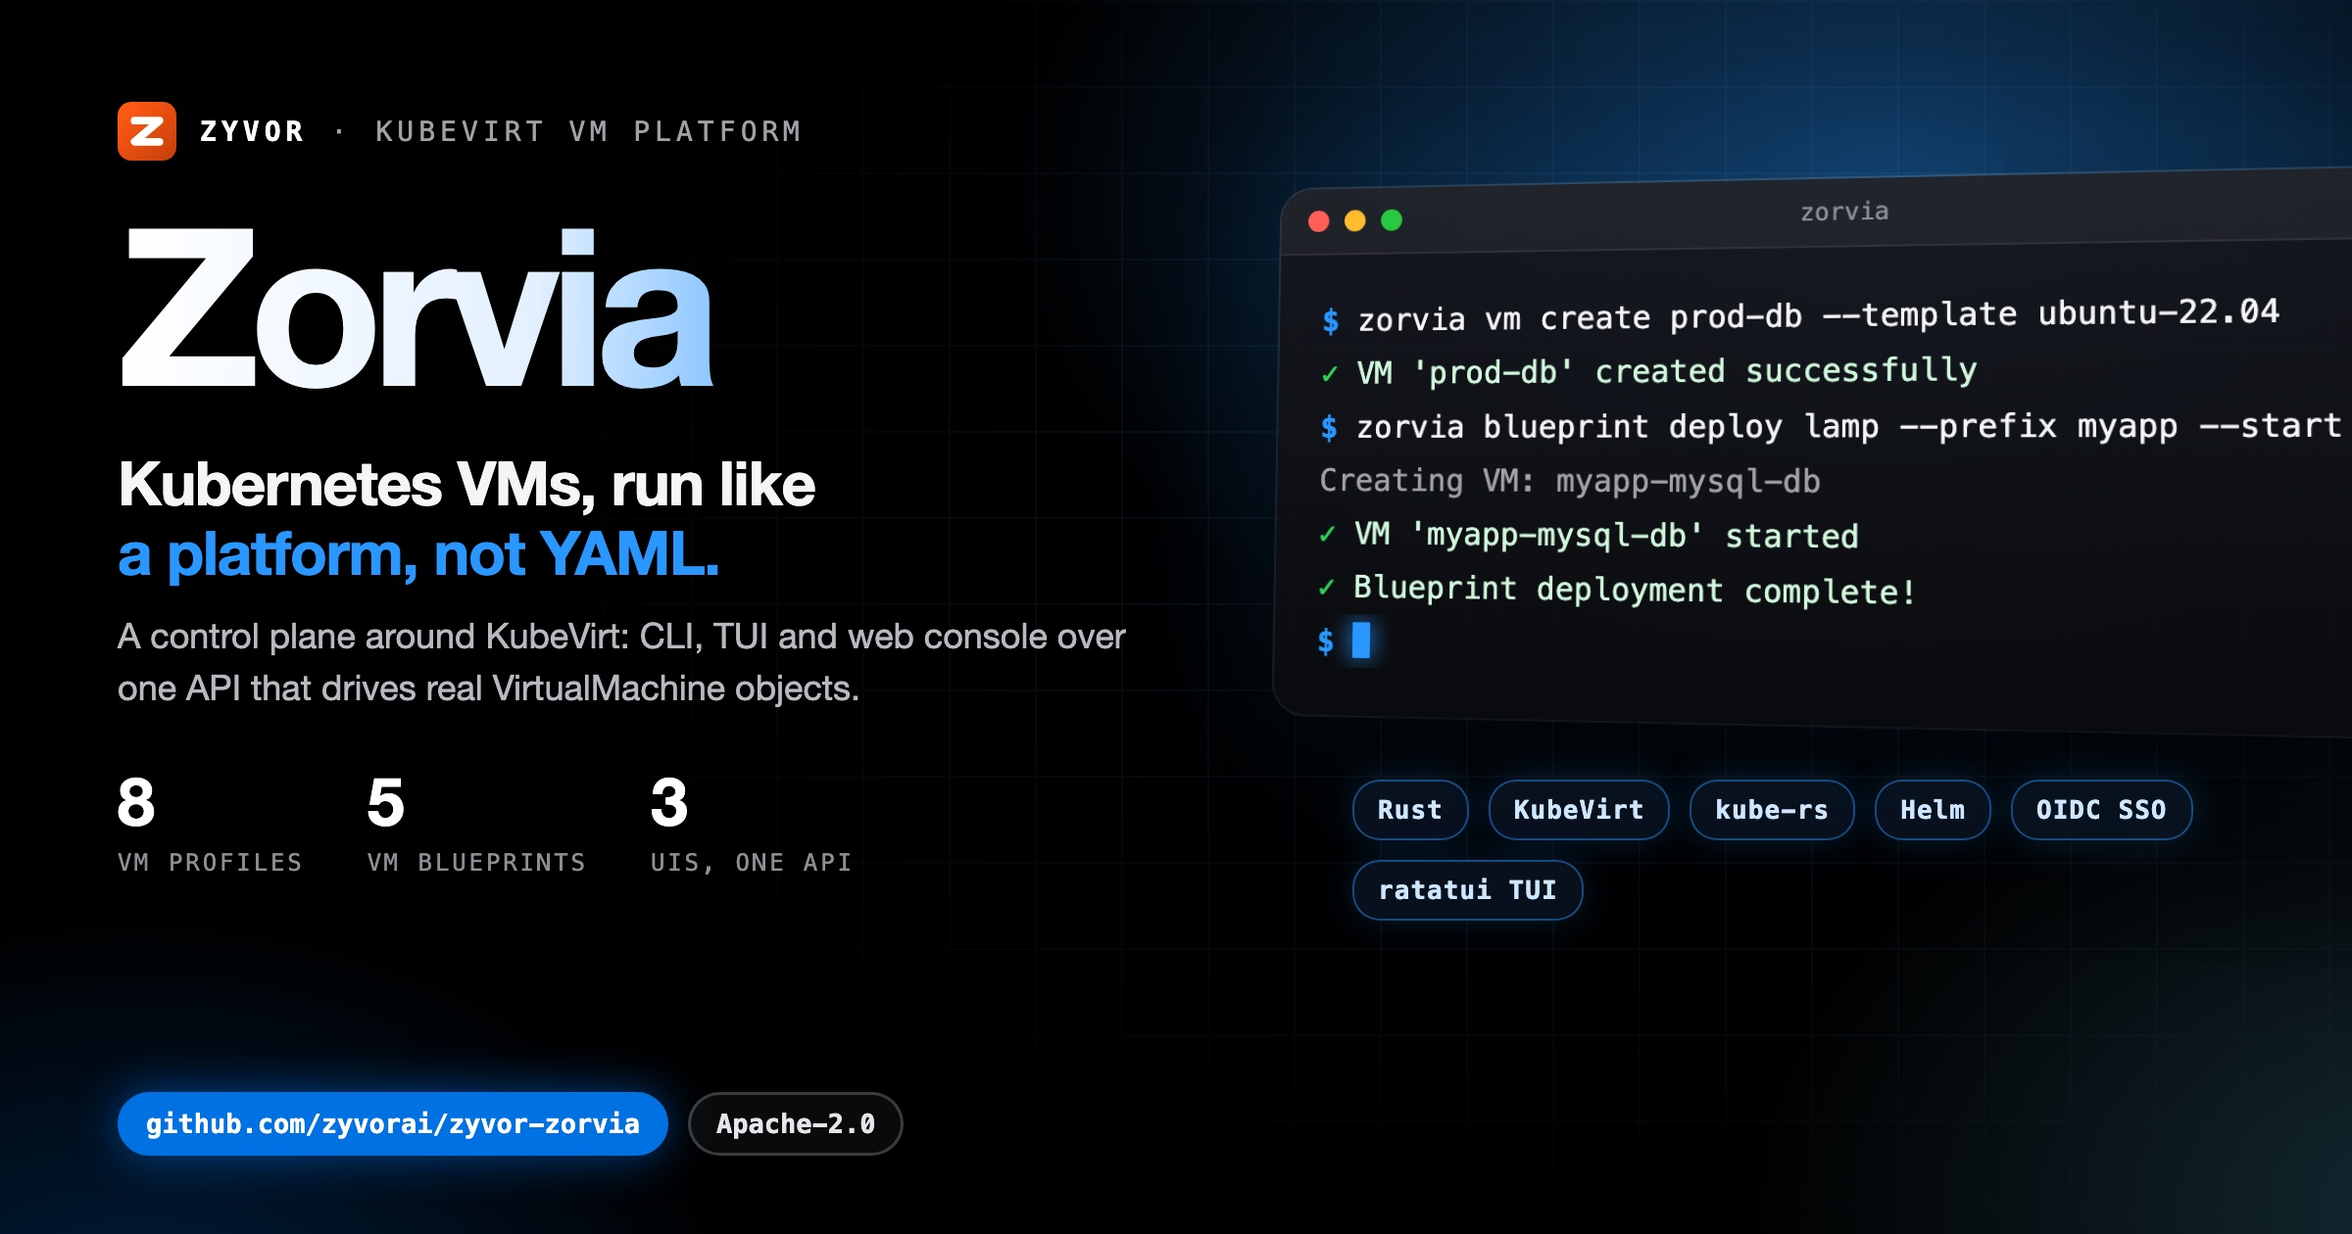
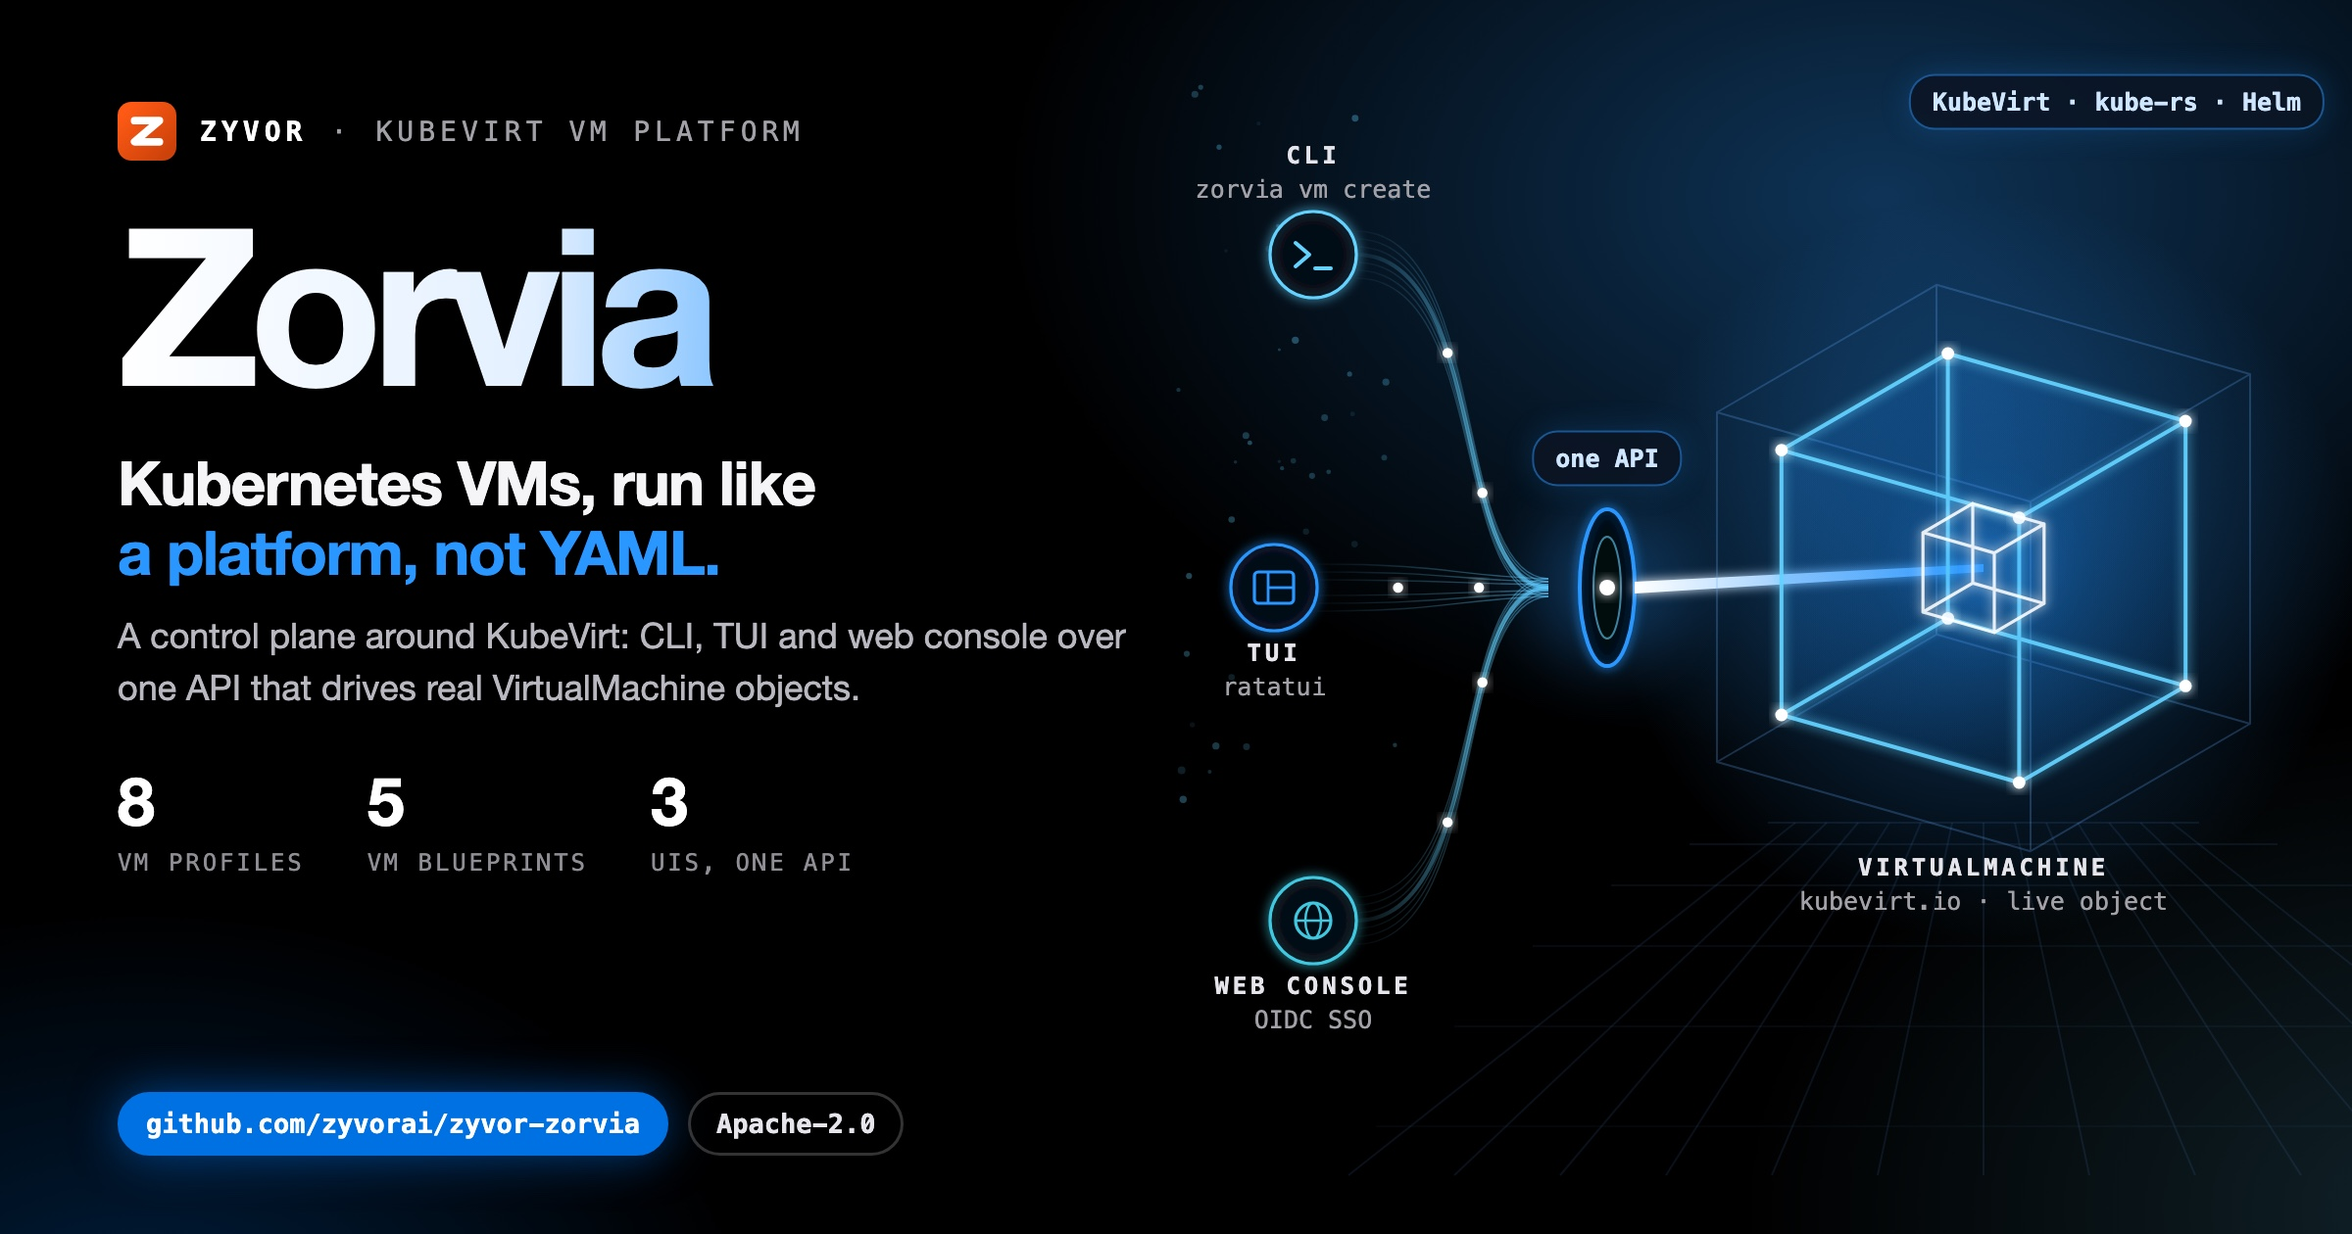
docs(social): unique illustrated hero card
Replace the shared terminal-window art with a motif drawn for this project;
same verified copy and stats on the left.

Changed region(s): [[0.5, 0.0619, 1.0, 0.8357]]

diff --git a/docs/social/zorvia-hero-dark.html b/docs/social/zorvia-hero-dark.html
@@ -8,58 +8,47 @@
   Build: ./docs/social/build-hero-dark.sh  ->  zorvia-hero-dark.jpg (2400x1260)
 -->
 <style>
-  :root { --blue:#0071e3; --signal:#2997ff; --cyan:#64d2ff; --green:#30d158; --amber:#ff9f0a;
+  :root { --blue:#0071e3; --signal:#2997ff; --cyan:#64d2ff; --green:#30d158; --amber:#ff9f0a; --red:#ff453a; --violet:#bf5af2;
     --sans:'SF Pro Display','Helvetica Neue',Helvetica,Arial,sans-serif; --mono:'SF Mono',Menlo,Consolas,monospace; }
   * { box-sizing:border-box; }
   html,body { margin:0; padding:0; }
   body { width:1200px; height:630px; overflow:hidden; color:#f5f5f7; font-family:var(--sans); position:relative; background:#000; }
   .aurora { position:absolute; inset:0;
-    background:radial-gradient(720px 460px at 80% 16%, rgba(41,151,255,.40), transparent 62%),
-               radial-gradient(600px 420px at 104% 98%, rgba(100,210,255,.20), transparent 60%),
+    background:radial-gradient(720px 460px at 80% 16%, rgba(41,151,255,.34), transparent 62%),
+               radial-gradient(600px 420px at 104% 98%, rgba(100,210,255,.16), transparent 60%),
                radial-gradient(520px 380px at 6% 110%, rgba(0,113,227,.28), transparent 60%); }
-  .grid { position:absolute; inset:0; opacity:.09;
-    background-image:linear-gradient(rgba(120,180,255,.9) 1px,transparent 1px),linear-gradient(90deg,rgba(120,180,255,.9) 1px,transparent 1px);
-    background-size:44px 44px; -webkit-mask-image:radial-gradient(900px 520px at 72% 42%, #000 18%, transparent 75%); }
-  .left { position:absolute; left:60px; top:52px; width:560px; z-index:3; }
+  .copy { position:absolute; left:60px; top:52px; width:560px; z-index:3; }
   .brand { display:flex; align-items:center; gap:12px; font-family:var(--mono); font-size:14px; letter-spacing:.18em; text-transform:uppercase; color:#a1a1a6; }
   .brand b { color:#fff; }
   .word { margin:20px 0 0; font-size:112px; line-height:.95; font-weight:800; letter-spacing:-.05em; white-space:nowrap;
     background:linear-gradient(92deg,#fff 0%,#e3f0ff 38%,var(--signal) 74%,var(--cyan) 100%); -webkit-background-clip:text; background-clip:text; color:transparent; padding-bottom:6px; }
   .tag { margin:14px 0 0; font-size:31px; line-height:1.15; font-weight:700; letter-spacing:-.02em; }
   .tag em { font-style:normal; color:var(--signal); }
-  .lede { margin:12px 0 0; font-size:18px; line-height:1.45; color:#b8b8bf; width:520px; }
+  .lede { margin:12px 0 0; font-size:18px; line-height:1.45; color:#b8b8bf; width:520px; text-shadow:0 1px 12px #000; }
   .stats { margin-top:24px; display:flex; gap:32px; }
   .stat b { display:block; font-size:34px; font-weight:800; letter-spacing:-.03em; color:#fff; }
   .stat span { font-family:var(--mono); font-size:12px; letter-spacing:.12em; text-transform:uppercase; color:#8e8e93; }
   .pill { position:absolute; left:60px; bottom:40px; display:flex; gap:10px; z-index:3; }
-  .pill span { font-family:var(--mono); font-size:13.5px; font-weight:700; padding:7px 13px; border-radius:18px; border:1.5px solid rgba(255,255,255,.2); color:#e5e5ea; background:rgba(255,255,255,.04); }
+  .pill span { font-family:var(--mono); font-size:13.5px; font-weight:700; padding:7px 13px; border-radius:18px; border:1.5px solid rgba(255,255,255,.2); color:#e5e5ea; background:rgba(0,0,0,.6); }
   .pill span.b { background:var(--blue); border-color:var(--blue); color:#fff; box-shadow:0 0 24px rgba(0,113,227,.55); }
-
-  .right { position:absolute; left:652px; top:96px; width:560px; z-index:2; }
-  .win { position:relative; width:560px; border-radius:16px; overflow:hidden; z-index:2;
-    background:linear-gradient(180deg, rgba(22,24,30,.94), rgba(10,11,14,.96));
-    box-shadow:0 50px 100px rgba(0,0,0,.75), 0 0 0 1px rgba(255,255,255,.14), 0 0 90px rgba(41,151,255,.22);
-    transform:perspective(1600px) rotateY(-14deg) rotateX(4deg); transform-origin:left center; }
-  .bar { height:34px; display:flex; align-items:center; gap:8px; padding:0 14px; background:rgba(255,255,255,.05); border-bottom:1px solid rgba(255,255,255,.07); }
-  .bar i { width:11px; height:11px; border-radius:50%; background:#ff5f57; } .bar i:nth-child(2){background:#febc2e} .bar i:nth-child(3){background:#28c840}
-  .bar em { margin-left:auto; margin-right:auto; font-style:normal; font-family:var(--mono); font-size:12px; color:#8e8e93; transform:translateX(-24px); }
-  .term { min-height:214px; padding:20px 22px 24px; font-family:var(--mono); font-size:15.5px; line-height:1.75; }
-  .l { white-space:pre; overflow:hidden; text-overflow:ellipsis; color:#f5f5f7; }
-  .l .p { color:var(--signal); font-weight:700; }
-  .l.out { color:#a1a1a6; }
-  .l.cm { color:#6e6e73; }
-  .l.ok { color:#d1f7dc; } .l.ok span { color:var(--green); font-weight:700; }
-  .l.warn { color:#ffe1b0; } .l.warn span { color:var(--amber); font-weight:700; }
-  .cur { display:inline-block; width:9px; height:18px; background:var(--signal); vertical-align:-3px; box-shadow:0 0 12px var(--signal); }
-  .chips { margin:34px 0 0 38px; width:480px; display:flex; flex-wrap:wrap; gap:10px; position:relative; z-index:3; }
-  .chips span { font-family:var(--mono); font-size:13px; font-weight:700; letter-spacing:.04em; padding:7px 12px; border-radius:14px;
-    color:#cfe6ff; background:rgba(10,20,35,.82); border:1px solid rgba(41,151,255,.45); box-shadow:0 0 18px rgba(41,151,255,.18); }
+  .art { position:absolute; left:520px; top:0; width:680px; height:630px; z-index:2; }
+  .art svg { display:block; }
+  #labels { position:absolute; inset:0; z-index:4; pointer-events:none; }
+  .lbl { position:absolute; font-family:var(--mono); font-size:12.5px; color:#a1a1a6; text-align:center; transform:translate(-50%,-50%); white-space:nowrap; }
+  .lbl b { display:block; font-size:12px; letter-spacing:.16em; text-transform:uppercase; color:#e5e5ea; }
+  .lbl span { display:block; margin-top:3px; }
+  .lbl.box { padding:7px 12px; border-radius:12px; background:rgba(8,10,14,.85); border:1px solid rgba(255,255,255,.14); }
+  .lbl.chip { padding:6px 11px; border-radius:13px; font-size:12.5px; font-weight:700; color:#cfe6ff; background:rgba(10,20,35,.85); border:1px solid rgba(41,151,255,.5); box-shadow:0 0 16px rgba(41,151,255,.2); }
+  .lbl.left { transform:translate(0,-50%); text-align:left; }
+  .lbl.right { transform:translate(-100%,-50%); text-align:right; }
+  .ok { color:var(--green) !important; } .warn { color:var(--amber) !important; } .bad { color:var(--red) !important; } .sig { color:var(--signal) !important; } .cy { color:var(--cyan) !important; } .vi { color:var(--violet) !important; }
 </style>
 </head>
 <body>
 <div class="aurora"></div>
-<div class="grid"></div>
-<div class="left">
+<div class="art"><svg id="art" width="680" height="630" viewBox="0 0 680 630" xmlns="http://www.w3.org/2000/svg"></svg></div>
+<div id="labels"></div>
+<div class="copy">
   <div class="brand"><svg viewBox="0 0 64 64" width="30" height="30" aria-hidden="true"><defs><linearGradient id="zb" x1="8" y1="8" x2="56" y2="56" gradientUnits="userSpaceOnUse"><stop offset="0" stop-color="#ff5a15"/><stop offset="1" stop-color="#cc420a"/></linearGradient></defs><rect width="64" height="64" rx="15" fill="url(#zb)"/><path d="M18.5,20.5 45.5,20.5 18.5,43.5 45.5,43.5" fill="none" stroke="#fff" stroke-width="8.3" stroke-linecap="round" stroke-linejoin="round"/></svg><b>Zyvor</b><span>&middot;</span><span>KubeVirt VM platform</span></div>
   <div class="word">Zorvia</div>
   <div class="tag">Kubernetes VMs, run like<br><em>a platform, not YAML.</em></div>
@@ -67,8 +56,106 @@
   <div class="stats"><div class="stat"><b>8</b><span>VM profiles</span></div><div class="stat"><b>5</b><span>VM blueprints</span></div><div class="stat"><b>3</b><span>UIs, one API</span></div></div>
 </div>
 <div class="pill"><span class="b">github.com/zyvorai/zyvor-zorvia</span><span>Apache-2.0</span></div>
-<div class="right"><div class="win"><div class="bar"><i></i><i></i><i></i><em>zorvia</em></div>
-<div class="term"><div class="l"><span class="p">$</span> zorvia vm create prod-db --template ubuntu-22.04</div><div class="l ok"><span>&#10003;</span> VM &#x27;prod-db&#x27; created successfully</div><div class="l"><span class="p">$</span> zorvia blueprint deploy lamp --prefix myapp --start</div><div class="l out">Creating VM: myapp-mysql-db</div><div class="l ok"><span>&#10003;</span> VM &#x27;myapp-mysql-db&#x27; started</div><div class="l ok"><span>&#10003;</span> Blueprint deployment complete!</div><div class="l"><span class="p">$</span> <i class="cur"></i></div></div></div>
-<div class="chips"><span>Rust</span><span>KubeVirt</span><span>kube-rs</span><span>Helm</span><span>OIDC SSO</span><span>ratatui TUI</span></div></div>
+<script>
+var Z = (function () {
+  var NS = 'http://www.w3.org/2000/svg', svg = document.getElementById('art'), labels = document.getElementById('labels');
+  var seed = 20261004;
+  function rnd() { seed = (seed * 1103515245 + 12345) % 2147483648; return seed / 2147483648; }
+  function el(tag, a, parent) { var n = document.createElementNS(NS, tag); for (var k in a) n.setAttribute(k, a[k]); (parent || svg).appendChild(n); return n; }
+  function g(attrs) { return el('g', attrs || {}); }
+  function label(x, y, inner, cls, style) { var d = document.createElement('div'); d.className = 'lbl ' + (cls || ''); d.style.left = (520 + x) + 'px'; d.style.top = y + 'px'; if (style) d.setAttribute('style', d.getAttribute('style') + ';' + style); d.innerHTML = inner; labels.appendChild(d); return d; }
+  return { NS: NS, svg: svg, W: 680, H: 630, rnd: rnd, el: el, g: g, label: label,
+    reseed: function (s) { seed = s; },
+    c: { blue: '#0071e3', signal: '#2997ff', cyan: '#64d2ff', green: '#30d158', amber: '#ff9f0a', red: '#ff453a', violet: '#bf5af2', teal: '#40c8e0', indigo: '#5e5ce6', pink: '#ff375f', white: '#f5f5f7', grey: '#8e8e93' } };
+})();
+(function () {
+// Zorvia: three rays (CLI, TUI, web console) converge through one API aperture into a wireframe
+// VirtualMachine cube.
+var C = Z.c;
+var d = Z.el('defs', {});
+d.innerHTML = '<filter id="zvgl" x="-50%" y="-50%" width="200%" height="200%"><feGaussianBlur stdDeviation="3" result="b"/><feMerge><feMergeNode in="b"/><feMergeNode in="SourceGraphic"/></feMerge></filter>' +
+  '<filter id="zvsf" x="-80%" y="-80%" width="260%" height="260%"><feGaussianBlur stdDeviation="16"/></filter>' +
+  '<linearGradient id="zvray" x1="0" y1="0" x2="1" y2="0"><stop offset="0" stop-color="#64d2ff" stop-opacity=".05"/><stop offset="1" stop-color="#64d2ff" stop-opacity=".85"/></linearGradient>' +
+  '<linearGradient id="zvbeam" x1="0" y1="0" x2="1" y2="0"><stop offset="0" stop-color="#ffffff"/><stop offset="1" stop-color="#2997ff"/></linearGradient>' +
+  '<linearGradient id="zvface" x1="0" y1="0" x2="1" y2="1"><stop offset="0" stop-color="#2997ff" stop-opacity=".22"/><stop offset="1" stop-color="#0071e3" stop-opacity=".04"/></linearGradient>' +
+  '<radialGradient id="zvhalo"><stop offset="0" stop-color="#2997ff" stop-opacity=".4"/><stop offset="1" stop-color="#2997ff" stop-opacity="0"/></radialGradient>';
+
+var AX = 300, AY = 300, KX = 492, KY = 290, S = 74;
+
+// faint perspective floor lines under the cube
+for (var i = -6; i <= 6; i++) Z.el('line', { x1: KX + i * 16, y1: KY + 130, x2: KX + i * 54, y2: 600, stroke: 'rgba(100,170,255,.10)' });
+for (var j = 0; j < 6; j++) { var y = KY + 130 + j * j * 5 + j * 6; Z.el('line', { x1: KX - 110 - j * 40, y1: y, x2: KX + 110 + j * 40, y2: y, stroke: 'rgba(100,170,255,' + (.10 - j * .012).toFixed(3) + ')' }); }
+Z.el('circle', { cx: KX, cy: KY, r: 190, fill: 'url(#zvhalo)' });
+for (var k = 0; k < 40; k++) Z.el('circle', { cx: 80 + Z.rnd() * 120, cy: 40 + Z.rnd() * 380, r: .8 + Z.rnd() * 1.2, fill: C.cyan, opacity: (.08 + Z.rnd() * .25).toFixed(2) });
+
+// sources
+var src = [
+  { x: 150, y: 130, name: 'CLI', sub: 'zorvia vm create', col: C.cyan },
+  { x: 130, y: 300, name: 'TUI', sub: 'ratatui', col: C.signal },
+  { x: 150, y: 470, name: 'web console', sub: 'OIDC SSO', col: C.teal }
+];
+src.forEach(function (s, n) {
+  // bundle of fine rays
+  for (var f = -3; f <= 3; f++) {
+    var sy = s.y + f * 4;
+    Z.el('path', { d: 'M' + (s.x + 22) + ',' + sy + ' C' + (s.x + 90) + ',' + sy + ' ' + (AX - 80) + ',' + (AY + f * 2) + ' ' + (AX - 30) + ',' + (AY + f * 1.5), fill: 'none', stroke: 'url(#zvray)', 'stroke-width': f === 0 ? 2 : .7, opacity: f === 0 ? 1 : .55 });
+  }
+  var mp = Z.el('path', { d: 'M' + (s.x + 22) + ',' + s.y + ' C' + (s.x + 90) + ',' + s.y + ' ' + (AX - 80) + ',' + AY + ' ' + (AX - 30) + ',' + AY, fill: 'none', stroke: 'none' });
+  var L = mp.getTotalLength();
+  [0.35, 0.7].forEach(function (t) { var q = mp.getPointAtLength(L * t); Z.el('circle', { cx: q.x, cy: q.y, r: 2.6, fill: '#fff', filter: 'url(#zvgl)' }); });
+  Z.el('circle', { cx: s.x, cy: s.y, r: 22, fill: 'rgba(6,10,18,.92)', stroke: s.col, 'stroke-width': 1.6, filter: 'url(#zvgl)' });
+});
+// source glyphs
+var g0 = src[0];
+Z.el('polyline', { points: (g0.x - 9) + ',' + (g0.y - 6) + ' ' + (g0.x - 2) + ',' + g0.y + ' ' + (g0.x - 9) + ',' + (g0.y + 6), fill: 'none', stroke: C.cyan, 'stroke-width': 2, 'stroke-linecap': 'round', 'stroke-linejoin': 'round' });
+Z.el('line', { x1: g0.x + 1, y1: g0.y + 7, x2: g0.x + 9, y2: g0.y + 7, stroke: C.cyan, 'stroke-width': 2, 'stroke-linecap': 'round' });
+var g1 = src[1];
+Z.el('rect', { x: g1.x - 10, y: g1.y - 8, width: 20, height: 16, rx: 2, fill: 'none', stroke: C.signal, 'stroke-width': 1.6 });
+Z.el('line', { x1: g1.x - 3, y1: g1.y - 8, x2: g1.x - 3, y2: g1.y + 8, stroke: C.signal, 'stroke-width': 1.4 });
+Z.el('line', { x1: g1.x - 3, y1: g1.y, x2: g1.x + 10, y2: g1.y, stroke: C.signal, 'stroke-width': 1.4 });
+var g2 = src[2];
+Z.el('circle', { cx: g2.x, cy: g2.y, r: 9, fill: 'none', stroke: C.teal, 'stroke-width': 1.6 });
+Z.el('ellipse', { cx: g2.x, cy: g2.y, rx: 4, ry: 9, fill: 'none', stroke: C.teal, 'stroke-width': 1.2 });
+Z.el('line', { x1: g2.x - 9, y1: g2.y, x2: g2.x + 9, y2: g2.y, stroke: C.teal, 'stroke-width': 1.2 });
+src.forEach(function (s, n) { Z.label(s.x, s.y + (n === 0 ? -42 : 42), '<b>' + s.name + '</b><span>' + s.sub + '</span>'); });
+
+// API aperture
+Z.el('circle', { cx: AX, cy: AY, r: 40, fill: C.signal, opacity: .25, filter: 'url(#zvsf)' });
+Z.el('ellipse', { cx: AX, cy: AY, rx: 14, ry: 40, fill: 'rgba(6,10,18,.9)', stroke: C.signal, 'stroke-width': 2, filter: 'url(#zvgl)' });
+Z.el('ellipse', { cx: AX, cy: AY, rx: 7, ry: 26, fill: 'none', stroke: 'rgba(100,210,255,.6)', 'stroke-width': 1 });
+Z.el('circle', { cx: AX, cy: AY, r: 4, fill: '#fff', filter: 'url(#zvgl)' });
+Z.label(AX, AY - 66, 'one API', 'chip');
+
+// cube projection
+var yaw = 35 * Math.PI / 180, pitch = -24 * Math.PI / 180;
+function prj(x, y, z, s) {
+  var x1 = x * Math.cos(yaw) - z * Math.sin(yaw), z1 = x * Math.sin(yaw) + z * Math.cos(yaw);
+  var y1 = y * Math.cos(pitch) - z1 * Math.sin(pitch);
+  return [KX + x1 * s, KY + y1 * s];
+}
+var V = [[-1, -1, -1], [1, -1, -1], [1, 1, -1], [-1, 1, -1], [-1, -1, 1], [1, -1, 1], [1, 1, 1], [-1, 1, 1]];
+var E = [[0, 1], [1, 2], [2, 3], [3, 0], [4, 5], [5, 6], [6, 7], [7, 4], [0, 4], [1, 5], [2, 6], [3, 7]];
+var F = [[0, 1, 2, 3], [4, 5, 6, 7], [0, 1, 5, 4], [3, 2, 6, 7], [0, 3, 7, 4], [1, 2, 6, 5]];
+function drawCube(s, stroke, sw, faces, op) {
+  var P = V.map(function (v) { return prj(v[0], v[1], v[2], s); });
+  if (faces) F.forEach(function (f) { Z.el('polygon', { points: f.map(function (i) { return P[i][0].toFixed(1) + ',' + P[i][1].toFixed(1); }).join(' '), fill: 'url(#zvface)', opacity: .7 }); });
+  var dd = E.map(function (e) { return 'M' + P[e[0]][0].toFixed(1) + ',' + P[e[0]][1].toFixed(1) + ' L' + P[e[1]][0].toFixed(1) + ',' + P[e[1]][1].toFixed(1); }).join(' ');
+  var at = { d: dd, fill: 'none', stroke: stroke, 'stroke-width': sw, opacity: op, 'stroke-linecap': 'round' };
+  if (sw > 1.5) at.filter = 'url(#zvgl)';
+  Z.el('path', at);
+  return P;
+}
+// beam API -> cube centre (behind cube)
+Z.el('path', { d: 'M' + (AX + 14) + ',' + (AY - 3) + ' L' + KX + ',' + (KY - 2) + ' L' + KX + ',' + (KY + 2) + ' L' + (AX + 14) + ',' + (AY + 3) + 'Z', fill: 'url(#zvbeam)', filter: 'url(#zvgl)' });
+drawCube(S * 1.32, 'rgba(100,170,255,.25)', 1, false, 1);
+var P = drawCube(S, C.cyan, 2, true, .95);
+P.forEach(function (p) { Z.el('circle', { cx: p[0], cy: p[1], r: 3.2, fill: '#fff', filter: 'url(#zvgl)' }); });
+// inner core: the guest
+Z.el('circle', { cx: KX, cy: KY, r: 26, fill: C.signal, opacity: .35, filter: 'url(#zvsf)' });
+drawCube(S * 0.3, '#fff', 1.6, false, .9);
+Z.label(KX, KY + S * 1.32 + 64, '<b>VirtualMachine</b><span>kubevirt.io &middot; live object</span>');
+Z.label(560, 52, 'KubeVirt &middot; kube-rs &middot; Helm', 'chip');
+})();
+</script>
 </body>
 </html>
